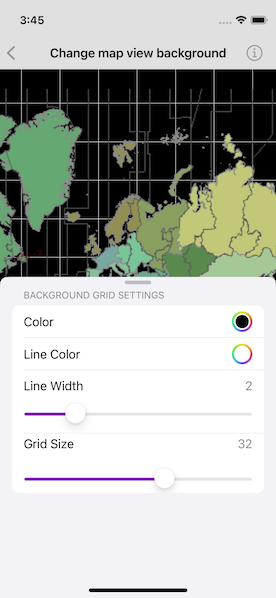
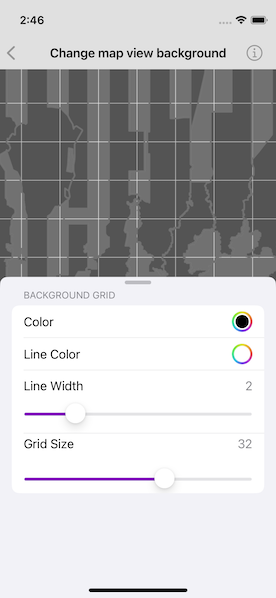
Use PortalItem for feature service; update screenshot to match  new data.

diff --git a/Shared/Samples/Change map view background/ChangeMapViewBackgroundView.Model.swift b/Shared/Samples/Change map view background/ChangeMapViewBackgroundView.Model.swift
@@ -23,7 +23,7 @@ extension ChangeMapViewBackgroundView {
         /// A map with a single feature layer representing world time zones.
         let map: Map = {
             let featureServiceTable = ServiceFeatureTable(
-                url: URL(string: "https://services.arcgis.com/P3ePLMYs2RVChkJx/arcgis/rest/services/World_Time_Zones/FeatureServer/0")!
+                item: PortalItem(url: URL(string: "https://www.arcgis.com/home/item.html?id=312cebfea2624e108e234220b04460b8")!)!
             )
             let featureLayer = FeatureLayer(featureTable: featureServiceTable)
 
